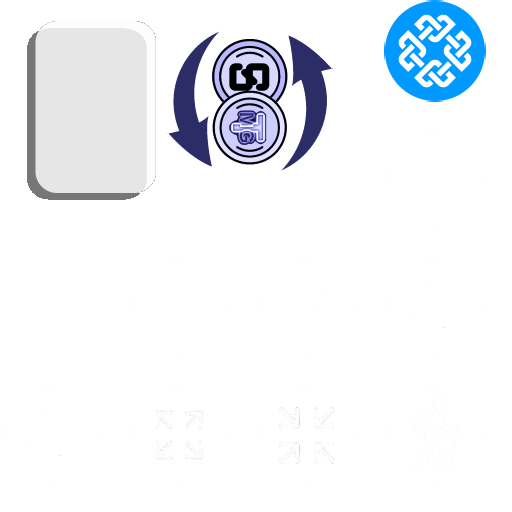
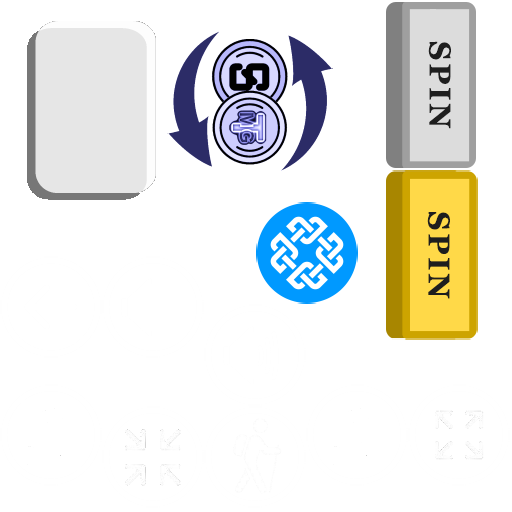
Add files via upload
ditched HTML SPIN button,  added in-game native button and just did js call to the script.. cleaner..

Changed region(s): [[0.75, 0.0, 0.9688, 0.6875], [0.5, 0.375, 0.7188, 0.5938]]

diff --git a/scripts/c3runtime.js b/scripts/c3runtime.js
@@ -3912,6 +3912,7 @@ self.C3_GetObjectRefTable = function () {
 		C3.Plugins.Browser.Acts.CancelFullScreen,
 		C3.Plugins.Browser.Acts.RequestFullScreen,
 		C3.Plugins.Touch.Cnds.OnTouchObject,
+		C3.ScriptsInEvents.MainEvent_Event51_Act3,
 		C3.Plugins.System.Acts.GoToLayoutByName,
 		C3.Plugins.Mouse.Cnds.IsOverObject,
 		C3.Plugins.Sprite.Acts.SetY,
@@ -3989,6 +3990,7 @@ self.C3_JsPropNameTable = [
 	{btn_ATMcancel: 0},
 	{btn_ATMaccept: 0},
 	{blanktext_link: 0},
+	{btn_spin: 0},
 	{JSONcontract: 0},
 	{JSONtxs: 0},
 	{GoSpin: 0},

diff --git a/scripts/project/scriptsInEvents.js b/scripts/project/scriptsInEvents.js
@@ -71,6 +71,11 @@ const scriptsInEvents = {
 			
 		},
 
+		async MainEvent_Event51_Act3(runtime, localVars)
+		{
+			sendTMG();
+		},
+
 		async AtmEvent_Event3_Act3(runtime, localVars)
 		{
 			confirm();
